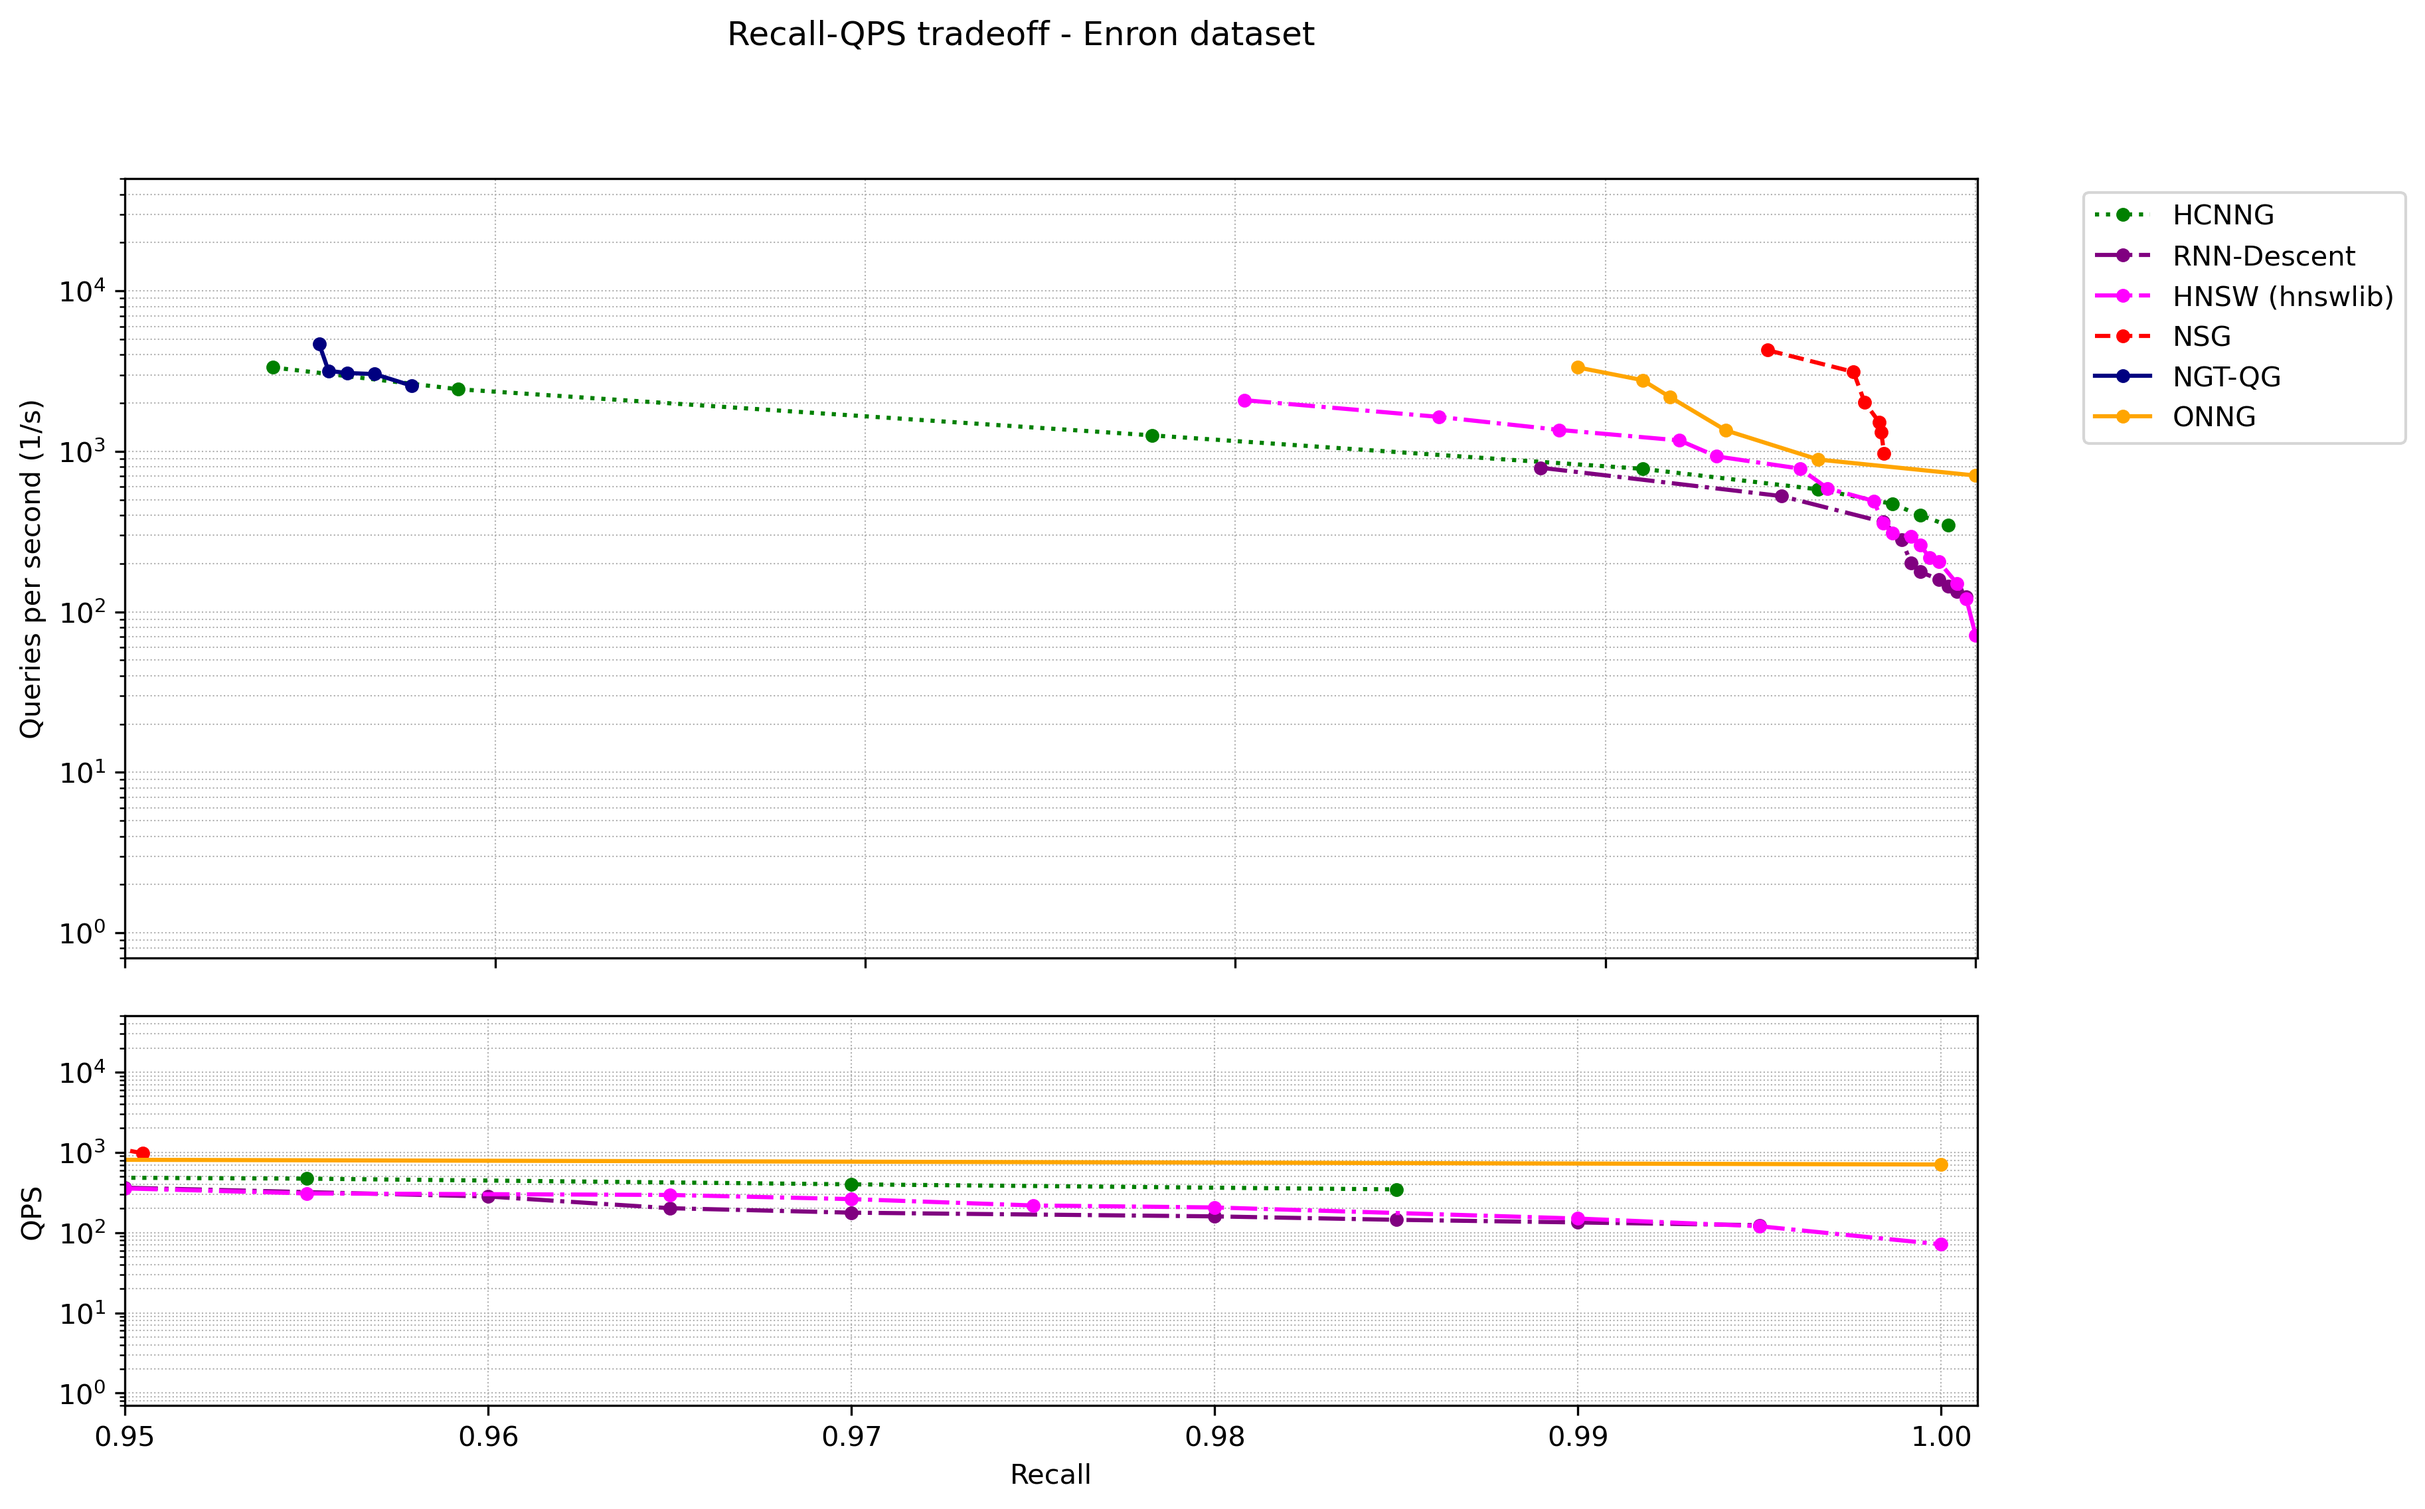
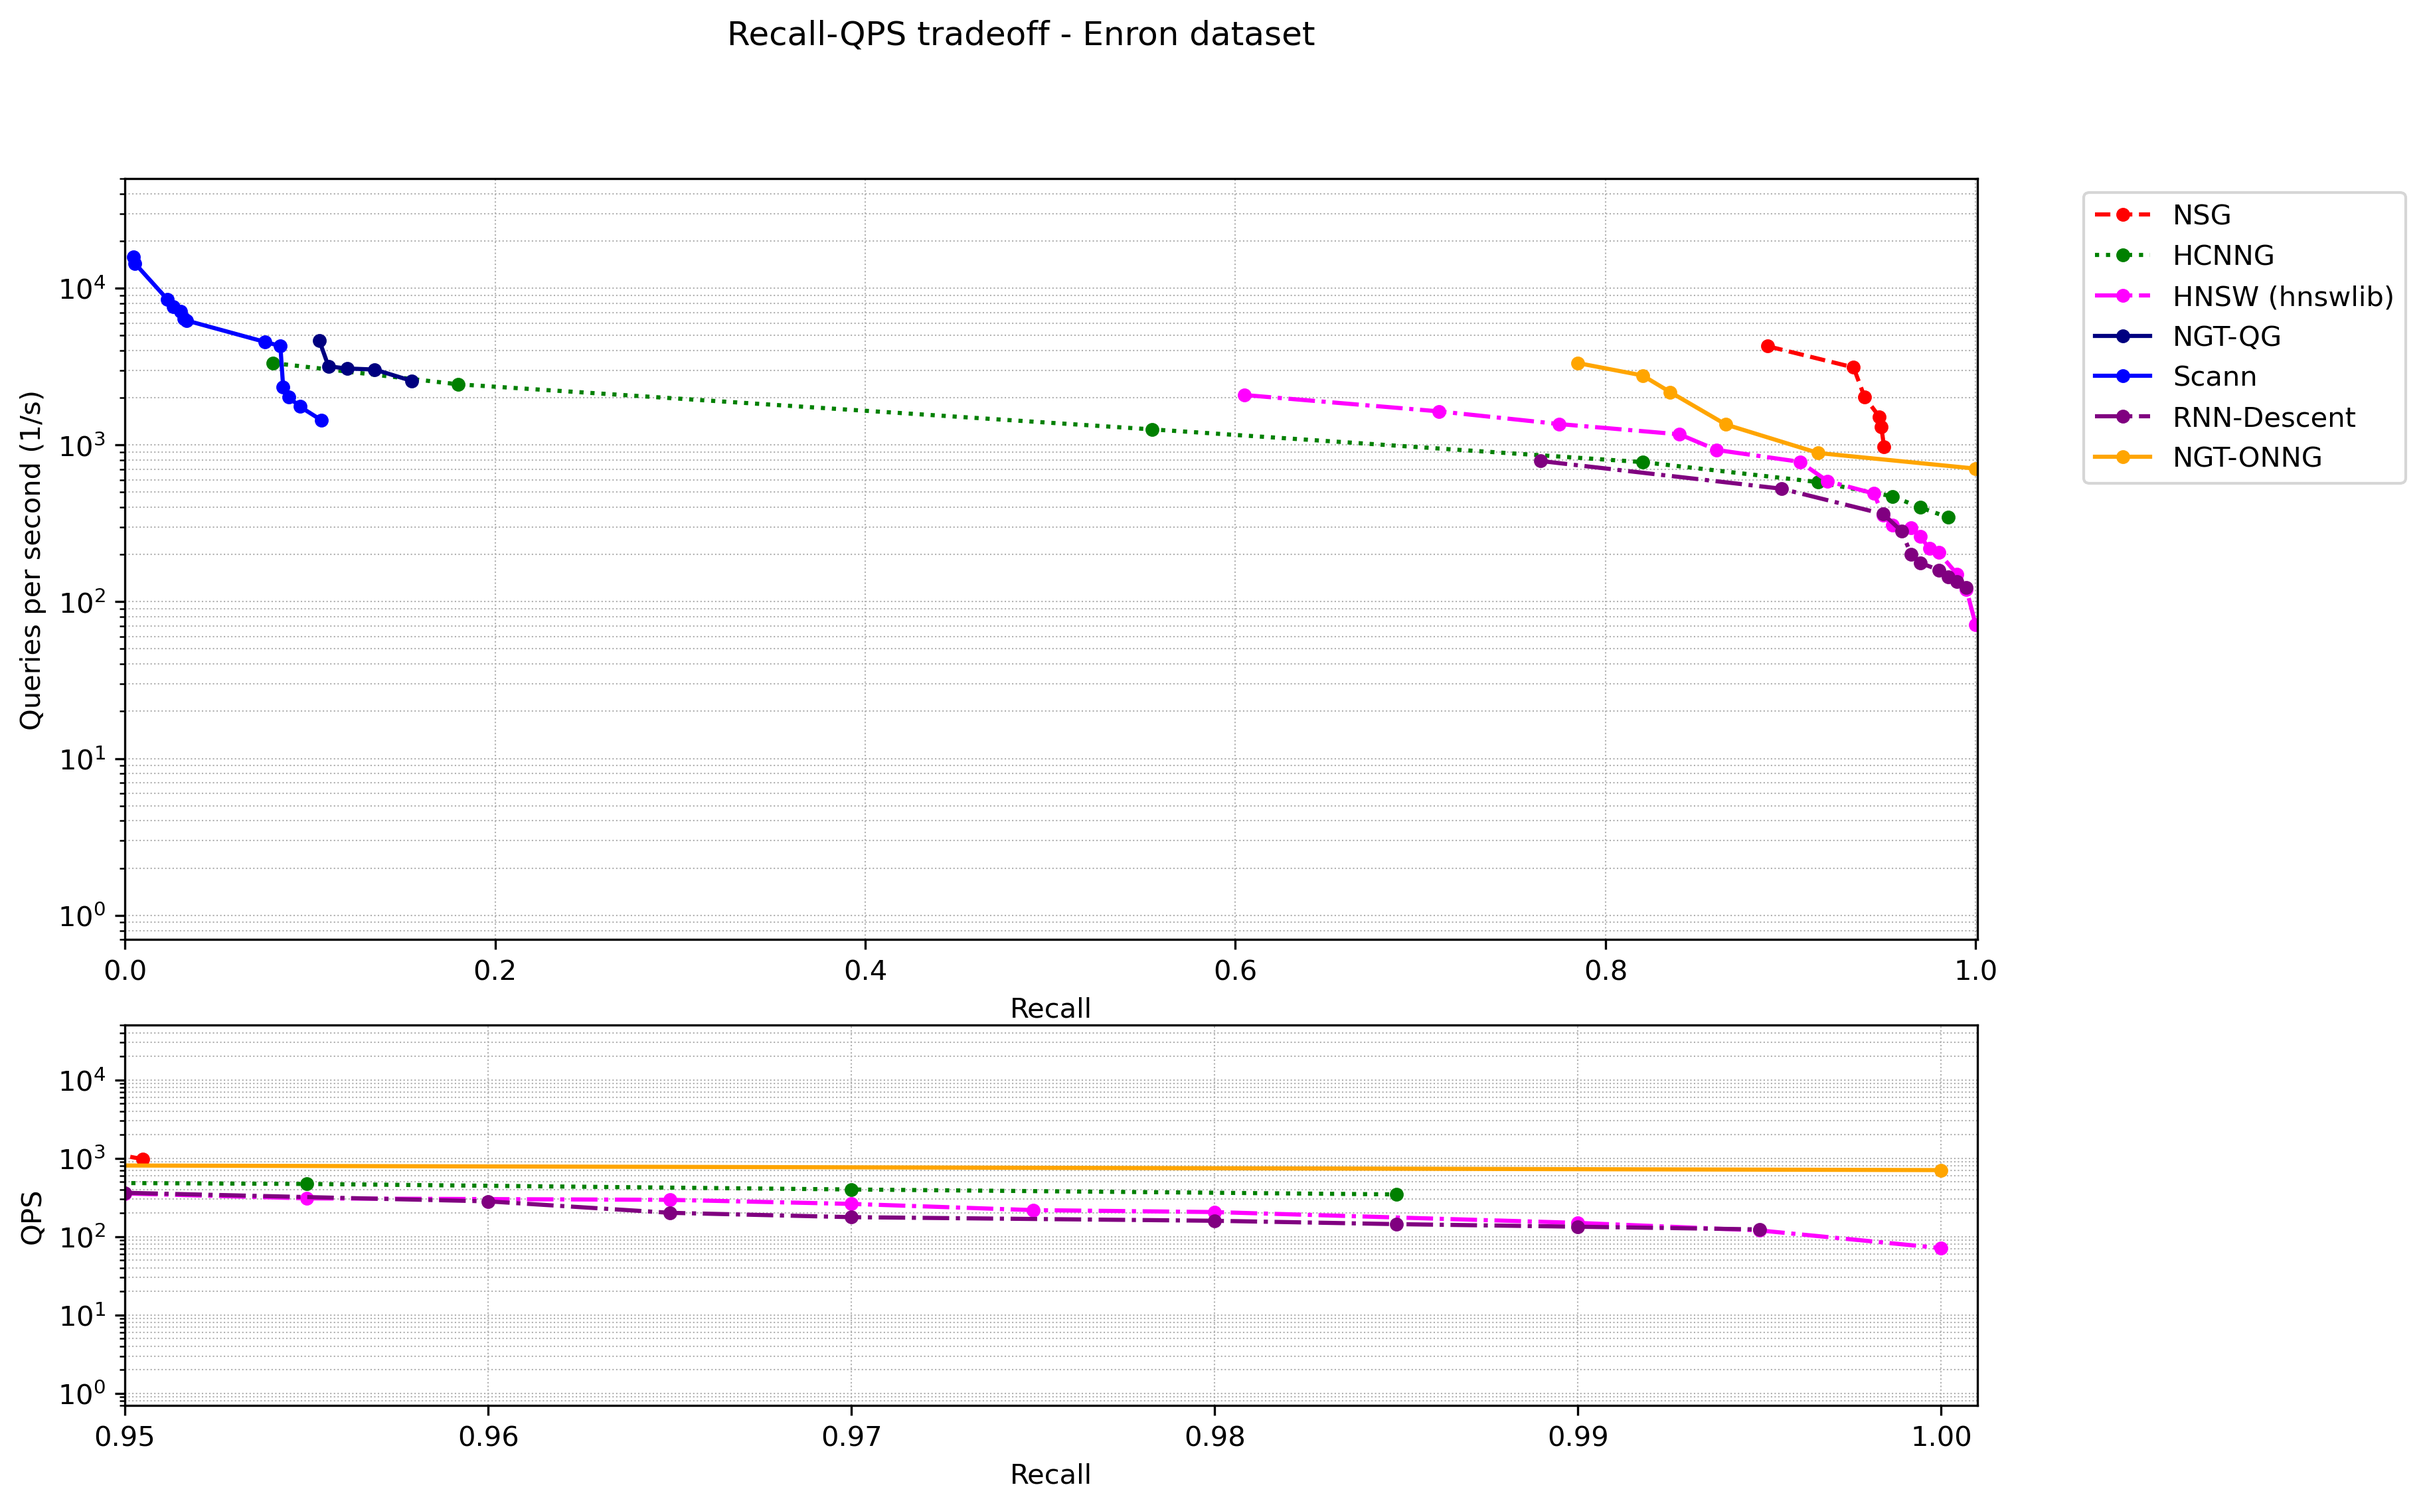
new result

diff --git a/tools/plot.py b/tools/plot.py
@@ -1,7 +1,8 @@
 import os
-import pandas as pd
+
 import matplotlib.pyplot as plt
 import numpy as np
+import pandas as pd
 
 # Get the script directory and set up paths
 script_dir = os.getcwd()  # Should be in tools/
@@ -22,22 +23,24 @@ algo_name = {
     'qg': "NGT-QG",
     'hcnng': "HCNNG",
     'nsg': "NSG",
-    'onng': "ONNG",
+    'onng': "NGT-ONNG",
     'rnndescent': "RNN-Descent",
-    'suco': "SUCO"
+    'suco': "SuCo",
+    'scann': "Scann"  # Added SCANN
 }
+
 
 def read_data(root_dir):
     data = {}
     for algo_dir in os.listdir(root_dir):
         if not algo_dir.endswith('-test'):
             continue
-            
+
         algo_path = os.path.join(root_dir, algo_dir)
         if os.path.isdir(algo_path):
             algo_name = algo_dir.replace('-test', '')
             data[algo_name] = {}
-            
+
             for dataset_dir in os.listdir(algo_path):
                 dataset_path = os.path.join(algo_path, dataset_dir)
                 if os.path.isdir(dataset_path):
@@ -45,7 +48,7 @@ def read_data(root_dir):
                         f"{dataset_dir}_recall_qps_result.csv",
                         f"{dataset_dir}_recall_qps_results.csv"
                     ]
-                    
+
                     for csv_file in csv_files:
                         csv_path = os.path.join(dataset_path, csv_file)
                         if os.path.exists(csv_path):
@@ -55,6 +58,7 @@ def read_data(root_dir):
                             data[algo_name][dataset_dir] = df
                             break
     return data
+
 
 def remove_local_minima(df, window_size=3):
     """
@@ -66,32 +70,34 @@ def remove_local_minima(df, window_size=3):
         window_size: Size of the window for smoothing (odd number)
     """
     df = df.sort_values('Recall').copy()
-    
+
     # First pass: Remove clear local minima
     mask = np.ones(len(df), dtype=bool)
     half_window = window_size // 2
-    
+
     for i in range(half_window, len(df) - half_window):
-        window = df['QPS'].iloc[i-half_window:i+half_window+1]
+        window = df['QPS'].iloc[i - half_window:i + half_window + 1]
         if df['QPS'].iloc[i] < max(window.iloc[:half_window]) and \
-           df['QPS'].iloc[i] < max(window.iloc[half_window+1:]):
+                df['QPS'].iloc[i] < max(window.iloc[half_window + 1:]):
             mask[i] = False
-    
+
     df = df[mask]
-    
+
     # Second pass: Ensure monotonic decrease in QPS as recall increases
     final_points = []
     current_max_qps = float('-inf')
-    
-    for idx in range(len(df)-1, -1, -1):
+
+    for idx in range(len(df) - 1, -1, -1):
         if df['QPS'].iloc[idx] > current_max_qps:
             final_points.append(idx)
             current_max_qps = df['QPS'].iloc[idx]
-    
+
     return df.iloc[sorted(final_points)]
+
 
 def keep_highest_qps(df):
     return df.groupby('Recall').agg({'QPS': 'max'}).reset_index()
+
 
 def plot_dataset(data, dataset):
     plt.figure(figsize=(12, 8))
@@ -104,30 +110,31 @@ def plot_dataset(data, dataset):
         'nsg': ('red', '--'),
         'onng': ('orange', '-'),
         'rnndescent': ('purple', '-.'),
-        'suco': ('brown', '--')
+        'suco': ('brown', '--'),
+        'scann': ('blue', '-')  # Added SCANN with blue color and solid line
     }
 
-    # Create two subplot regions
-    gs = plt.GridSpec(2, 1, height_ratios=[2, 1], hspace=0.1)
+    # Create two subplot regions with slightly more space between plots
+    gs = plt.GridSpec(2, 1, height_ratios=[2, 1], hspace=0.15)
     ax1 = plt.subplot(gs[0])
     ax2 = plt.subplot(gs[1])
-    
+
     for algo, algo_data in data.items():
         if dataset in algo_data:
             df = algo_data[dataset]
             df_highest = keep_highest_qps(df)
             df_filtered = remove_local_minima(df_highest, window_size=5)
-            
+
             color, linestyle = styles.get(algo, ('gray', '-'))
-            
+
             # Plot on both axes
             for ax in [ax1, ax2]:
                 ax.plot(df_filtered['Recall'], df_filtered['QPS'],
-                       label=algo_name.get(algo, algo),
-                       color=color,
-                       linestyle=linestyle,
-                       marker='o',
-                       markersize=4)
+                        label=algo_name.get(algo, algo),
+                        color=color,
+                        linestyle=linestyle,
+                        marker='o',
+                        markersize=4)
 
     # Configure main plot (0.0 to 1.0 recall)
     ax1.set_xscale('linear')
@@ -135,7 +142,7 @@ def plot_dataset(data, dataset):
     ax1.set_xlim(0, 1.001)
     ax1.set_ylim(0.7, 5e4)
     ax1.grid(True, which='both', linestyle=':', linewidth=0.5)
-    ax1.set_xticklabels([])  # Remove x-axis labels from top plot
+    ax1.set_xlabel('Recall')
 
     # Configure zoomed plot (0.95 to 1.0 recall)
     ax2.set_xscale('linear')
@@ -143,22 +150,23 @@ def plot_dataset(data, dataset):
     ax2.set_xlim(0.95, 1.001)
     ax2.set_ylim(0.7, 5e4)
     ax2.grid(True, which='both', linestyle=':', linewidth=0.5)
-    
+
     # Set labels and title
     ax2.set_xlabel('Recall')
     ax1.set_ylabel('Queries per second (1/s)')
     ax2.set_ylabel('QPS')
     plt.suptitle(f'Recall-QPS tradeoff - {dataset.capitalize()} dataset')
-    
+
     # Add legend
     handles, labels = ax1.get_legend_handles_labels()
     ax1.legend(handles, labels, bbox_to_anchor=(1.05, 1), loc='upper left')
 
     plt.tight_layout()
-    plt.savefig(os.path.join(plot_dir, f'{dataset}.png'), 
-                bbox_inches='tight', 
+    plt.savefig(os.path.join(plot_dir, f'{dataset}.png'),
+                bbox_inches='tight',
                 dpi=300)
     plt.close()
+
 
 # Read and plot the data
 data = read_data(result_dir)
